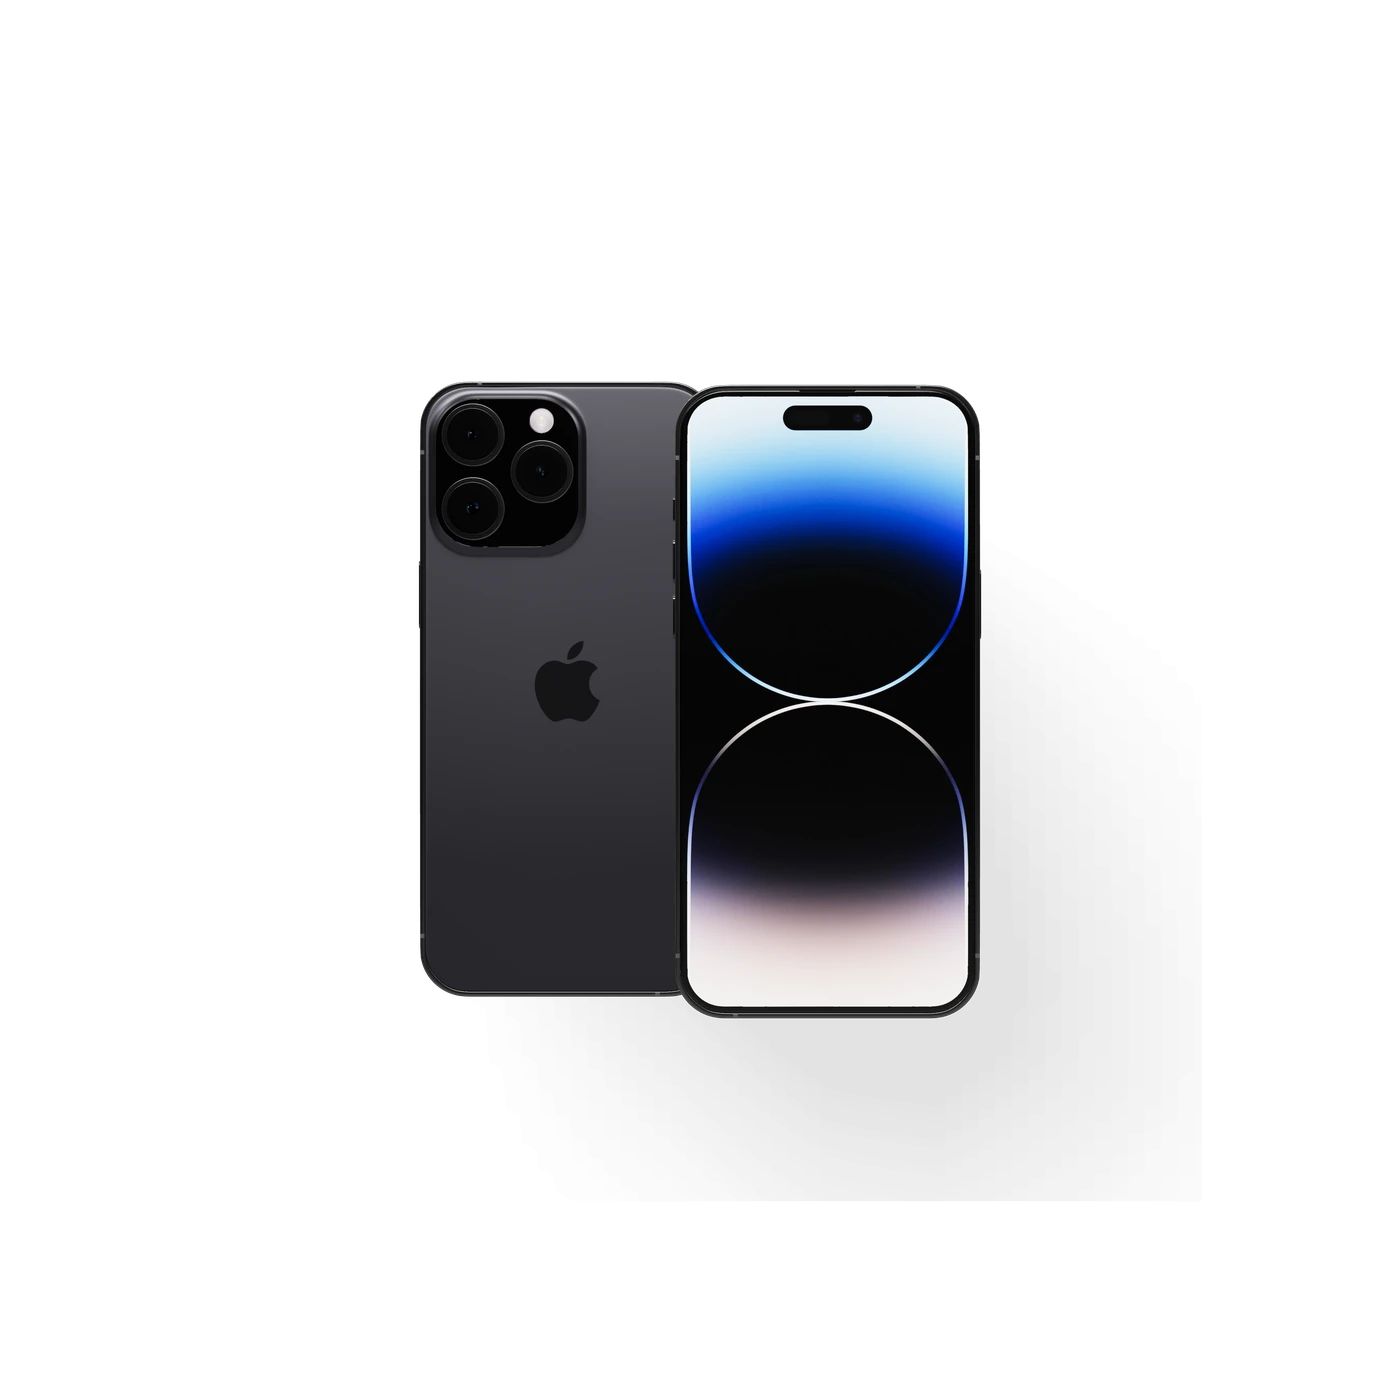
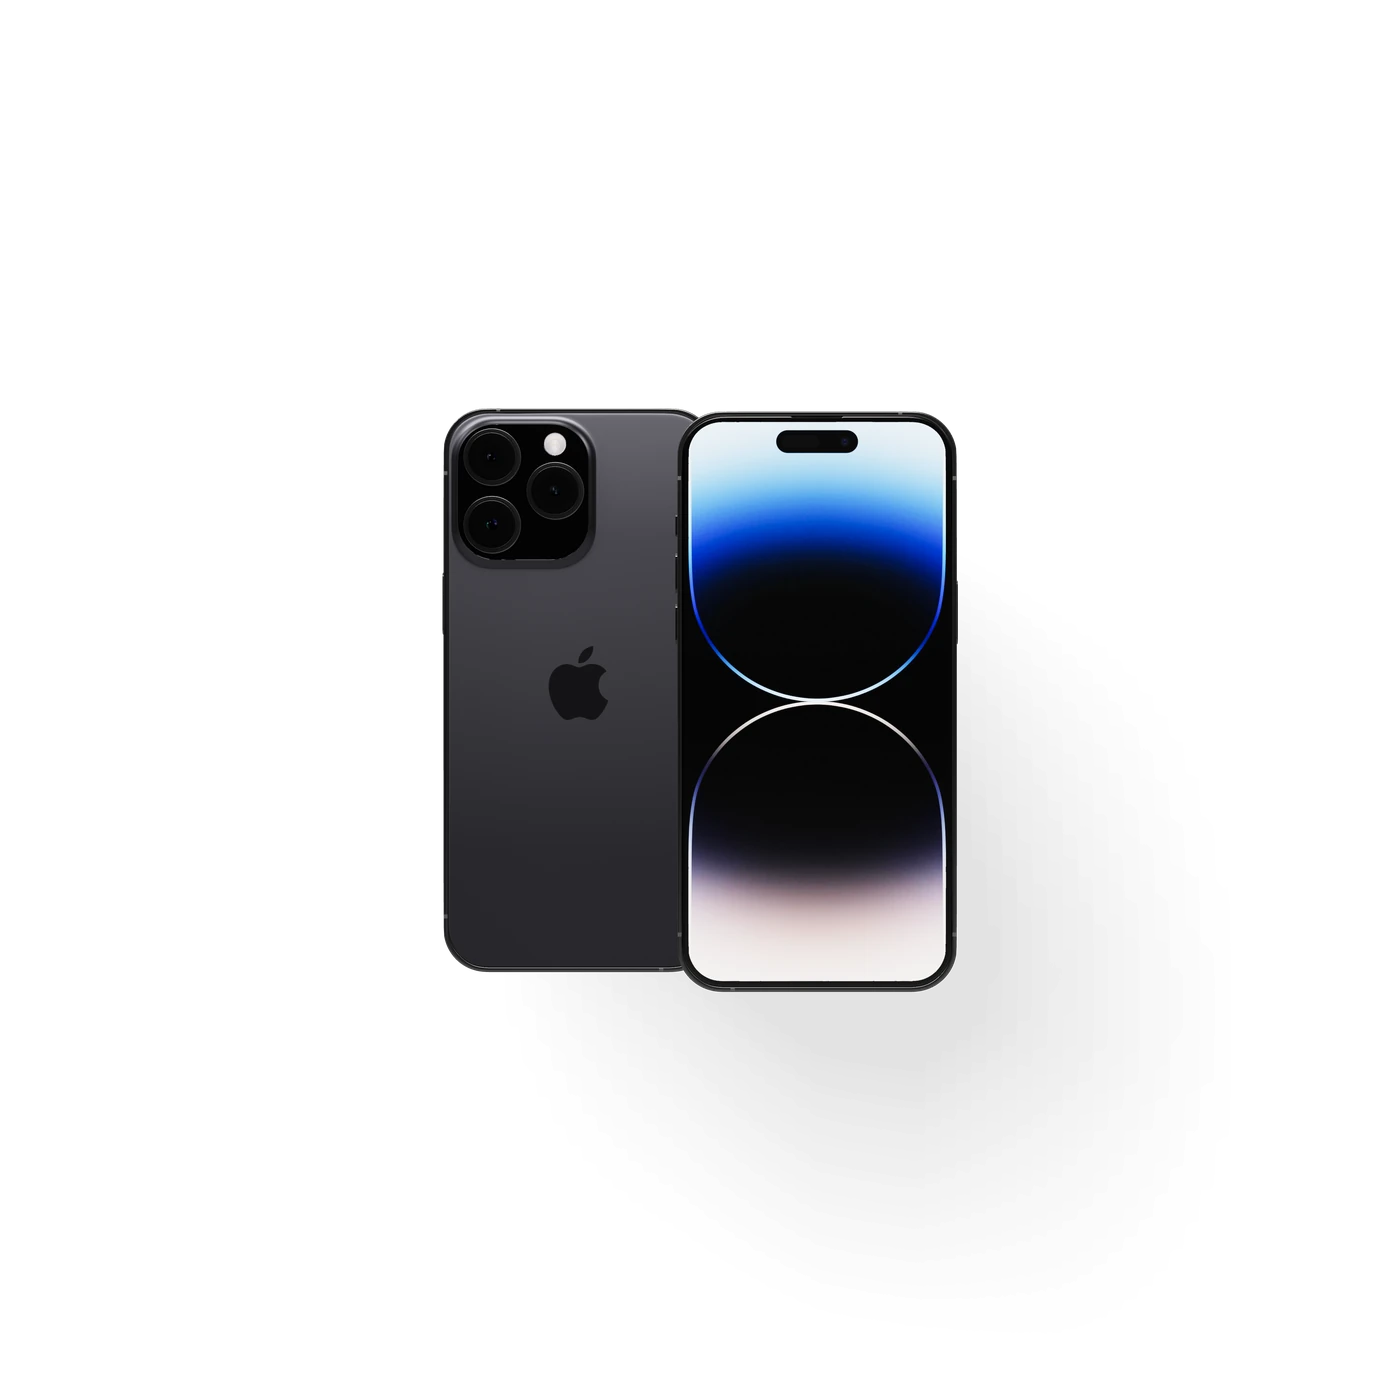
Wheel images: re-render with the whole shadow inside the frame
Claude-Session: https://claude.ai/code/session_01RbTaUxdV4TewZdRLLdDhNP

Changed region(s): [[0.2764, 0.2457, 0.7064, 0.7371], [0.3686, 0.4607, 0.43, 0.5221]]

diff --git a/data.js b/data.js
@@ -14,7 +14,7 @@ window.DEVICES = [
     name: "Pixel phone",
     title: "FreeDrama",
     keywords: [["Role", "Senior Product Designer"], ["Company", "Kuku"], ["Year", "2026"], ["Platform", "Android"]],
-    image: "assets/pixel-front.webp",
+    image: "assets/pixel-front.webp?v=2",
     href: "#"
   },
   {
@@ -22,7 +22,7 @@ window.DEVICES = [
     name: "Studio Display",
     title: "Control Room",
     keywords: [["Role", "Product Designer"], ["Company", "Studio"], ["Year", "2025"], ["Platform", "Web"]],
-    image: "assets/display-front.webp",
+    image: "assets/display-front.webp?v=2",
     href: "#"
   },
   {
@@ -30,7 +30,7 @@ window.DEVICES = [
     name: "iPhone",
     title: "Night Shift",
     keywords: [["Role", "UI Designer"], ["Company", "Studio"], ["Year", "2024"], ["Platform", "iOS"]],
-    image: "assets/iphone-front.webp",
+    image: "assets/iphone-front.webp?v=2",
     href: "#"
   },
   {
@@ -38,7 +38,7 @@ window.DEVICES = [
     name: "MacBook Pro and iPhone",
     title: "Field Notes",
     keywords: [["Role", "Design Lead"], ["Company", "Studio"], ["Year", "2023"], ["Platform", "Web + Mobile"]],
-    image: "assets/macphone-front.webp",
+    image: "assets/macphone-front.webp?v=2",
     href: "#"
   },
   {
@@ -46,7 +46,7 @@ window.DEVICES = [
     name: "Galaxy S23 Ultra",
     title: "RocketPay",
     keywords: [["Role", "Product Designer"], ["Company", "RocketPay"], ["Year", "2022"], ["Platform", "Android"]],
-    image: "assets/samsung-front.webp",
+    image: "assets/samsung-front.webp?v=2",
     href: "#",
     wip: true
   }

diff --git a/style.css b/style.css
@@ -31,7 +31,7 @@ a { color: inherit; text-decoration: none; }
   will-change: transform; pointer-events: auto; -webkit-tap-highlight-color: transparent; user-select: none; -webkit-user-select: none;
 }
 .dv:focus-visible { outline: none; }
-.dv img { position: absolute; left: -60%; top: -60%; width: 220%; height: 220%; pointer-events: none; } /* the device sits in the middle; the rest is room for its shadow */
+.dv img { position: absolute; left: -70%; top: -70%; width: 240%; height: 240%; pointer-events: none; } /* the device sits in the middle; the rest is room for its shadow */
 .dv.is-wip img { filter: grayscale(1); opacity: .5; }
 .dv.is-wip.is-on { cursor: default; }
 .dv-pin:not(.dv-in) .dv { opacity: 0; }

diff --git a/index.html b/index.html
@@ -26,7 +26,7 @@
     </div>
   </section>
 
-  <link rel="preload" href="assets/pixel-front.webp" as="image" />
+  <link rel="preload" href="assets/pixel-front.webp?v=2" as="image" />
   <script src="data.js"></script>
   <script src="devices.js"></script>
 </body>

diff --git a/README.md b/README.md
@@ -33,7 +33,7 @@ To use your own content, edit the `DEVICES` array in `data.js`:
 | `name` | The device, read out to screen readers |
 | `title` | Big name above the table |
 | `keywords` | Rows in the table (label, value) |
-| `image` | Front view of the device with its shadow, centred in a transparent square. The device is 1/2.2 of the image; the rest is room for the shadow. |
+| `image` | Front view of the device with its shadow, centred in a transparent square. The device is 1/2.4 of the image; the rest holds its whole shadow. |
 | `wip` | `true` greys it out and stops it opening (optional) |
 | `href` | Link to the device's page |
 
